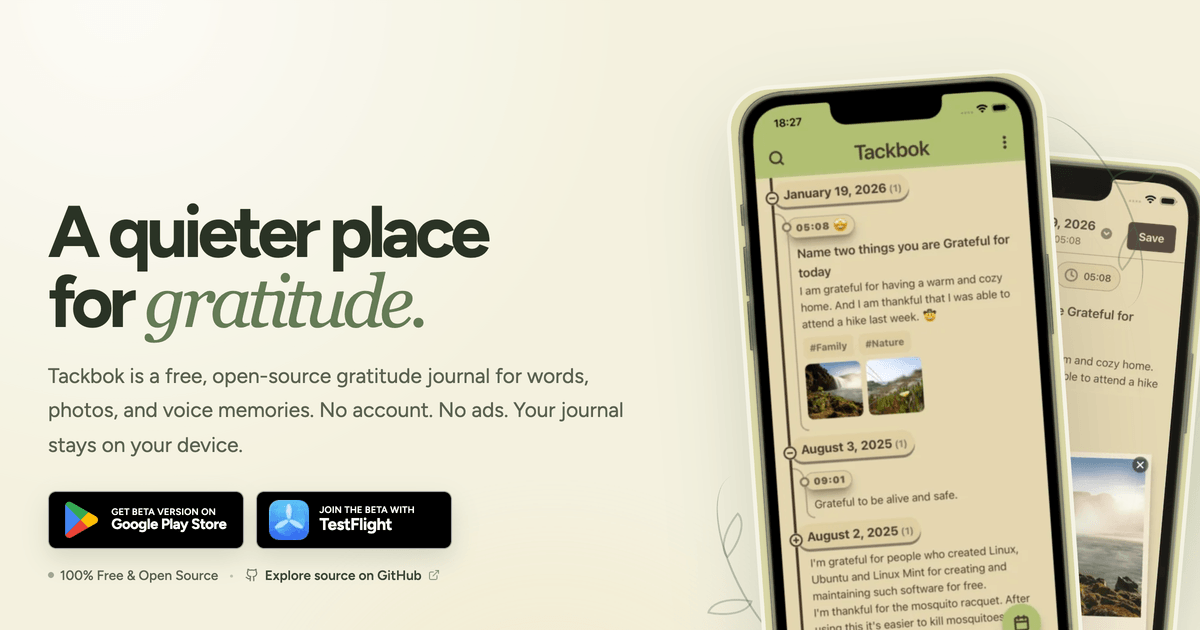
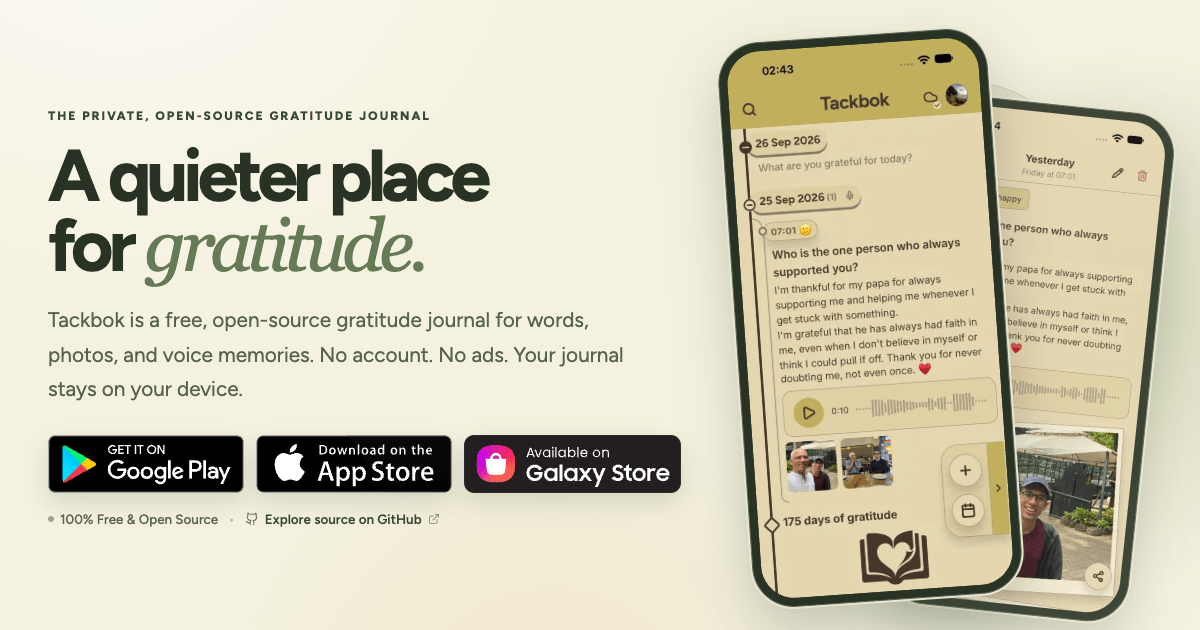
fix(website): serve 404 page, use /faq URLs, update claims, SEO and structured data (#202)
* fix(website): serve 404 page, use /faq URLs, update claims, SEO and structured data

* fix(website): apply review fixes for eyebrow contrast, 404 canonical and feature wording

diff --git a/apps/website/src/lib/page-path.ts b/apps/website/src/lib/page-path.ts
@@ -1,0 +1,7 @@
+/**
+ * With `build.format: 'file'`, `Astro.url.pathname` ends in `.html` at build
+ * time (`/faq.html`, `/index.html`). Returns the public URL path (`/faq`, `/`).
+ */
+export function pagePath(pathname: string): string {
+  return pathname.replace(/(?:\/index)?\.html$/, '') || '/';
+}
